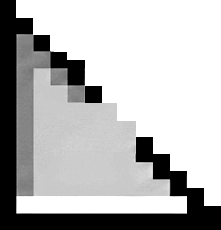
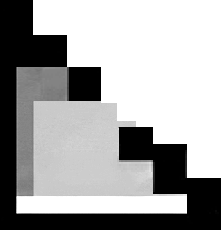
Even better 8-bit arrowheads

Changed region(s): [[0.0543, 0.1217, 0.4615, 0.4565], [0.5158, 0.5478, 1.0, 0.913], [0.0543, 0.0, 0.1629, 0.0913]]

diff --git a/lib/shared/widgets/theme_selector_tiles.dart b/lib/shared/widgets/theme_selector_tiles.dart
@@ -1,4 +1,5 @@
 import 'dart:math';
+import 'dart:ui' as ui;
 
 import 'package:chessiq/core/theme/app_theme_provider.dart';
 import 'package:chessiq/shared/graphics/pixel_arrow_renderer.dart';
@@ -221,7 +222,42 @@ class _ArrowThemePreviewPainter extends CustomPainter {
   _ArrowThemePreviewPainter({required this.mode})
     : super(repaint: PixelArrowRenderer.repaintListenable);
 
+  static const Color _previewTailColor = Color(0xFFFF4E4E);
+  static const Color _previewMidColor = Color(0xFFFFE55A);
+  static const Color _previewTipColor = Color(0xFF2FD46F);
+  static const Color _previewOutlineColor = Color(0xFF121212);
+
   final ArrowThemeMode mode;
+
+  Shader _previewGradientShader({
+    required Offset start,
+    required Offset end,
+    double darken = 0.0,
+    double lighten = 0.0,
+  }) {
+    Color adjust(Color color) {
+      var adjusted = color;
+      if (darken > 0) {
+        adjusted = Color.lerp(adjusted, Colors.black, darken)!;
+      }
+      if (lighten > 0) {
+        adjusted = Color.lerp(adjusted, Colors.white, lighten)!;
+      }
+      return adjusted;
+    }
+
+    return ui.Gradient.linear(
+      start,
+      end,
+      <Color>[
+        adjust(_previewTailColor),
+        adjust(_previewMidColor),
+        adjust(_previewTipColor),
+      ],
+      const <double>[0.0, 0.58, 1.0],
+      TileMode.clamp,
+    );
+  }
 
   @override
   void paint(Canvas canvas, Size size) {
@@ -245,9 +281,7 @@ class _ArrowThemePreviewPainter extends CustomPainter {
         canvas.drawLine(start, end - (unit * 8), shadowPaint);
 
         final bodyPaint = Paint()
-          ..shader = const LinearGradient(
-            colors: <Color>[Color(0xFFFFD166), Color(0xFFFF8A3D)],
-          ).createShader(Rect.fromLTWH(0, 0, size.width, size.height))
+          ..shader = _previewGradientShader(start: start, end: end)
           ..strokeWidth = 6
           ..strokeCap = StrokeCap.round
           ..style = PaintingStyle.stroke;
@@ -265,11 +299,14 @@ class _ArrowThemePreviewPainter extends CustomPainter {
             end.dy - 13 * cos(0.40) * unit.dy - 13 * sin(0.40) * perp.dy,
           )
           ..close();
-        canvas.drawPath(headPath, Paint()..color = const Color(0xFFFFB347));
+        canvas.drawPath(
+          headPath,
+          Paint()..shader = _previewGradientShader(start: start, end: end),
+        );
         canvas.drawPath(
           headPath,
           Paint()
-            ..color = const Color(0xFF7A3B00)
+            ..color = _previewOutlineColor
             ..style = PaintingStyle.stroke
             ..strokeWidth = 1.4,
         );
@@ -279,9 +316,18 @@ class _ArrowThemePreviewPainter extends CustomPainter {
           start: start,
           end: end,
           pixelSize: 2.6,
-          color: const Color(0xFFF4A544),
+          color: _previewTipColor,
+          tailColor: _previewTailColor,
+          midColor: _previewMidColor,
+          tipColor: _previewTipColor,
+          outlineColor: _previewOutlineColor,
         );
       case ArrowThemeMode.heavy3d:
+        const heavyPreviewHeadScale = 0.75;
+        final heavyPreviewHeadLen = 18.0 * heavyPreviewHeadScale;
+        final heavyPreviewHeadWing = 10.0 * heavyPreviewHeadScale;
+        final heavyPreviewHeadWaist = 9.0 * heavyPreviewHeadScale;
+        final heavyPreviewShaftStop = 12.0 * heavyPreviewHeadScale;
         final shadowPaint = Paint()
           ..color = Colors.black.withValues(alpha: 0.28)
           ..strokeWidth = 11
@@ -290,34 +336,34 @@ class _ArrowThemePreviewPainter extends CustomPainter {
           ..maskFilter = const MaskFilter.blur(BlurStyle.normal, 4);
         canvas.drawLine(
           start + const Offset(1.5, 2.5),
-          end - (unit * 10),
+          end - (unit * (heavyPreviewShaftStop - 2.0)),
           shadowPaint,
         );
 
         final basePaint = Paint()
-          ..color = const Color(0xFF5A2E0A)
+          ..shader = _previewGradientShader(
+            start: start,
+            end: end,
+            darken: 0.55,
+          )
           ..strokeWidth = 10
           ..strokeCap = StrokeCap.round
           ..style = PaintingStyle.stroke;
-        canvas.drawLine(start, end - (unit * 12), basePaint);
+        canvas.drawLine(start, end - (unit * heavyPreviewShaftStop), basePaint);
 
         final corePaint = Paint()
-          ..shader = LinearGradient(
-            begin: Alignment.topLeft,
-            end: Alignment.bottomRight,
-            colors: const <Color>[
-              Color(0xFFFFE5A7),
-              Color(0xFFFFA03D),
-              Color(0xFF8A3B00),
-            ],
-          ).createShader(Rect.fromLTWH(0, 0, size.width, size.height))
+          ..shader = _previewGradientShader(
+            start: start,
+            end: end,
+            lighten: 0.05,
+          )
           ..strokeWidth = 7
           ..strokeCap = StrokeCap.round
           ..style = PaintingStyle.stroke;
-        canvas.drawLine(start, end - (unit * 12), corePaint);
+        canvas.drawLine(start, end - (unit * heavyPreviewShaftStop), corePaint);
         canvas.drawLine(
           start - (perp * 1.8),
-          end - (unit * 13) - (perp * 1.8),
+          end - (unit * (heavyPreviewShaftStop + 1.0)) - (perp * 1.8),
           Paint()
             ..color = Colors.white.withValues(alpha: 0.60)
             ..strokeWidth = 2.2
@@ -327,13 +373,24 @@ class _ArrowThemePreviewPainter extends CustomPainter {
         final headPath = Path()
           ..moveTo(end.dx, end.dy)
           ..lineTo(
-            end.dx - unit.dx * 18 + perp.dx * 10,
-            end.dy - unit.dy * 18 + perp.dy * 10,
+            end.dx -
+                unit.dx * heavyPreviewHeadLen +
+                perp.dx * heavyPreviewHeadWing,
+            end.dy -
+                unit.dy * heavyPreviewHeadLen +
+                perp.dy * heavyPreviewHeadWing,
           )
-          ..lineTo(end.dx - unit.dx * 9, end.dy - unit.dy * 9)
           ..lineTo(
-            end.dx - unit.dx * 18 - perp.dx * 10,
-            end.dy - unit.dy * 18 - perp.dy * 10,
+            end.dx - unit.dx * heavyPreviewHeadWaist,
+            end.dy - unit.dy * heavyPreviewHeadWaist,
+          )
+          ..lineTo(
+            end.dx -
+                unit.dx * heavyPreviewHeadLen -
+                perp.dx * heavyPreviewHeadWing,
+            end.dy -
+                unit.dy * heavyPreviewHeadLen -
+                perp.dy * heavyPreviewHeadWing,
           )
           ..close();
 
@@ -346,20 +403,16 @@ class _ArrowThemePreviewPainter extends CustomPainter {
         canvas.drawPath(
           headPath,
           Paint()
-            ..shader = const LinearGradient(
-              begin: Alignment.topLeft,
-              end: Alignment.bottomRight,
-              colors: <Color>[
-                Color(0xFFFFF0C2),
-                Color(0xFFFFA848),
-                Color(0xFF7C3200),
-              ],
-            ).createShader(Rect.fromLTWH(0, 0, size.width, size.height)),
+            ..shader = _previewGradientShader(
+              start: start,
+              end: end,
+              lighten: 0.08,
+            ),
         );
         canvas.drawPath(
           headPath,
           Paint()
-            ..color = const Color(0xFF5A2E0A)
+            ..color = _previewOutlineColor
             ..style = PaintingStyle.stroke
             ..strokeWidth = 1.6,
         );

diff --git a/lib/shared/graphics/pixel_arrow_renderer.dart b/lib/shared/graphics/pixel_arrow_renderer.dart
@@ -19,6 +19,10 @@ class PixelArrowRenderer {
     required Offset end,
     required double pixelSize,
     required Color color,
+    Color? tailColor,
+    Color? midColor,
+    Color? tipColor,
+    Color? outlineColor,
     double alphaScale = 1.0,
     bool animatePulse = false,
     double progress = 0.0,
@@ -39,11 +43,19 @@ class PixelArrowRenderer {
     final diagonalLineInflate = headDirection.isDiagonal
         ? pixelSize * 0.125
         : 0.0;
+    final usesPreviewGradient =
+        tailColor != null && midColor != null && tipColor != null;
+    final previewTailColor = tailColor ?? color;
+    final previewMidColor = midColor ?? color;
+    final previewTipColor = tipColor ?? color;
 
-    final outlineColor = _darkenColor(
-      color,
-      0.76,
-    ).withValues(alpha: max(0.84, alphaScale));
+    final resolvedOutlineColor =
+        (outlineColor ??
+                _darkenColor(
+                  usesPreviewGradient ? previewTipColor : color,
+                  0.76,
+                ))
+            .withValues(alpha: max(0.84, alphaScale));
     final topLightColor = _lightenColor(
       color,
       0.24,
@@ -76,9 +88,16 @@ class PixelArrowRenderer {
 
     for (var index = 0; index < shaftCells.length; index++) {
       final t = shaftCells.length <= 1 ? 0.0 : index / (shaftCells.length - 1);
-      final shade = t < 0.22
-          ? Color.lerp(topLightColor, bodyColor, min(1.0, t / 0.22))!
-          : (t > 0.84 ? shadowColor : bodyColor);
+      final shade = usesPreviewGradient
+          ? _previewGradientColor(
+              t,
+              previewTailColor,
+              previewMidColor,
+              previewTipColor,
+            ).withValues(alpha: alphaScale)
+          : (t < 0.22
+                ? Color.lerp(topLightColor, bodyColor, min(1.0, t / 0.22))!
+                : (t > 0.84 ? shadowColor : bodyColor));
       fillCells[shaftCells[index]] = _PixelCellPaint(
         color: shade,
         progressT: t,
@@ -86,8 +105,16 @@ class PixelArrowRenderer {
     }
 
     if (fillCells.isEmpty) {
-      fillCells[_worldToCell(snappedStart, pixelSize)] = const _PixelCellPaint(
-        color: Colors.white,
+      final fallbackColor = usesPreviewGradient
+          ? _previewGradientColor(
+              0.0,
+              previewTailColor,
+              previewMidColor,
+              previewTipColor,
+            )
+          : Colors.white;
+      fillCells[_worldToCell(snappedStart, pixelSize)] = _PixelCellPaint(
+        color: fallbackColor,
         progressT: 0.0,
       );
     }
@@ -163,7 +190,7 @@ class PixelArrowRenderer {
     }
 
     for (final cell in outlineCells) {
-      drawCell(cell, outlineColor, inflate: diagonalLineInflate);
+      drawCell(cell, resolvedOutlineColor, inflate: diagonalLineInflate);
     }
     for (final entry in fillCells.entries) {
       drawCell(entry.key, entry.value.color, inflate: diagonalLineInflate);
@@ -185,9 +212,24 @@ class PixelArrowRenderer {
         pixelSize: pixelSize,
         direction: headDirection,
         headSprite: headSprite,
-        color: headTintColor,
+        color: usesPreviewGradient
+            ? previewTipColor.withValues(alpha: alphaScale)
+            : headTintColor,
       );
     }
+  }
+
+  static Color _previewGradientColor(
+    double t,
+    Color tailColor,
+    Color midColor,
+    Color tipColor,
+  ) {
+    final clampedT = t.clamp(0.0, 1.0);
+    if (clampedT <= 0.58) {
+      return Color.lerp(tailColor, midColor, clampedT / 0.58)!;
+    }
+    return Color.lerp(midColor, tipColor, (clampedT - 0.58) / 0.42)!;
   }
 
   static Color _lightenColor(Color color, double amount) {

diff --git a/lib/features/analysis/painters/energy_arrow_painter.dart b/lib/features/analysis/painters/energy_arrow_painter.dart
@@ -187,6 +187,7 @@ class EnergyArrowPainter extends CustomPainter {
 
       final pixelMode = themeMode == ArrowThemeMode.pixel;
       final heavyMode = themeMode == ArrowThemeMode.heavy3d;
+      const heavyLineScale = 0.75;
       final pixelStep = pixelMode ? max(3.0, min(4.5, sq * 0.08)) : 0.0;
       final renderStart = pixelMode ? _snapPoint(start, pixelStep) : start;
       final renderEnd = pixelMode ? _snapPoint(end, pixelStep) : end;
@@ -198,7 +199,7 @@ class EnergyArrowPainter extends CustomPainter {
               pixelStep,
               (strokeWidth / pixelStep).roundToDouble() * pixelStep,
             )
-          : (heavyMode ? strokeWidth * 1.55 : strokeWidth);
+          : (heavyMode ? strokeWidth * 1.55 * heavyLineScale : strokeWidth);
 
       if (pixelMode) {
         PixelArrowRenderer.paint(
@@ -228,15 +229,35 @@ class EnergyArrowPainter extends CustomPainter {
         continue;
       }
 
+      final angle = atan2(end.dy - start.dy, end.dx - start.dx);
+      final baseHeadLen = useStaticStyle
+          ? 18.0
+          : (isGambitMode && isFirstArrow ? 22.0 : 18.0);
+      final classicHeadLen = (!useStaticStyle && !isGambitMode && isFirstArrow)
+          ? (baseHeadLen * 1.30)
+          : baseHeadLen;
+      const heavyHeadScale = 0.75;
+      final headLen = heavyMode
+          ? classicHeadLen * 1.35 * heavyHeadScale
+          : classicHeadLen;
+      final headWaist = headLen * (heavyMode ? 0.78 : 2.0 / 3.0);
+      final headAngle = heavyMode ? 0.34 : 0.40;
+      final heavyShaftEnd = heavyMode
+          ? Offset(
+              renderEnd.dx - (unitX * headWaist),
+              renderEnd.dy - (unitY * headWaist),
+            )
+          : renderLineEnd;
+
       final path = Path()
         ..moveTo(renderStart.dx, renderStart.dy)
-        ..lineTo(renderLineEnd.dx, renderLineEnd.dy);
+        ..lineTo(heavyShaftEnd.dx, heavyShaftEnd.dy);
 
       if (heavyMode) {
         canvas.drawPath(
           path,
           Paint()
-            ..strokeWidth = renderStrokeWidth + 8
+            ..strokeWidth = renderStrokeWidth + (8 * heavyLineScale)
             ..strokeCap = StrokeCap.round
             ..style = PaintingStyle.stroke
             ..color = Colors.black.withValues(alpha: 0.24 * alphaScale)
@@ -245,7 +266,8 @@ class EnergyArrowPainter extends CustomPainter {
       }
 
       final outlineStrokeWidth =
-          renderStrokeWidth + (heavyMode ? 4.6 : (useStaticStyle ? 1.8 : 1.6));
+          renderStrokeWidth +
+          (heavyMode ? 4.6 * heavyLineScale : (useStaticStyle ? 1.8 : 1.6));
       final outlineColor = _darkenColor(baseColor, heavyMode ? 0.45 : 0.15)
           .withValues(
             alpha: heavyMode
@@ -363,16 +385,6 @@ class EnergyArrowPainter extends CustomPainter {
         canvas.drawPath(path, pulsePaint);
       }
 
-      final angle = atan2(end.dy - start.dy, end.dx - start.dx);
-      final baseHeadLen = useStaticStyle
-          ? 18.0
-          : (isGambitMode && isFirstArrow ? 22.0 : 18.0);
-      final classicHeadLen = (!useStaticStyle && !isGambitMode && isFirstArrow)
-          ? (baseHeadLen * 1.30)
-          : baseHeadLen;
-      final headLen = heavyMode ? classicHeadLen * 1.35 : classicHeadLen;
-      final headWaist = headLen * (heavyMode ? 0.78 : 2.0 / 3.0);
-      final headAngle = heavyMode ? 0.34 : 0.40;
       final headPoints = <Offset>[
         renderEnd,
         Offset(
